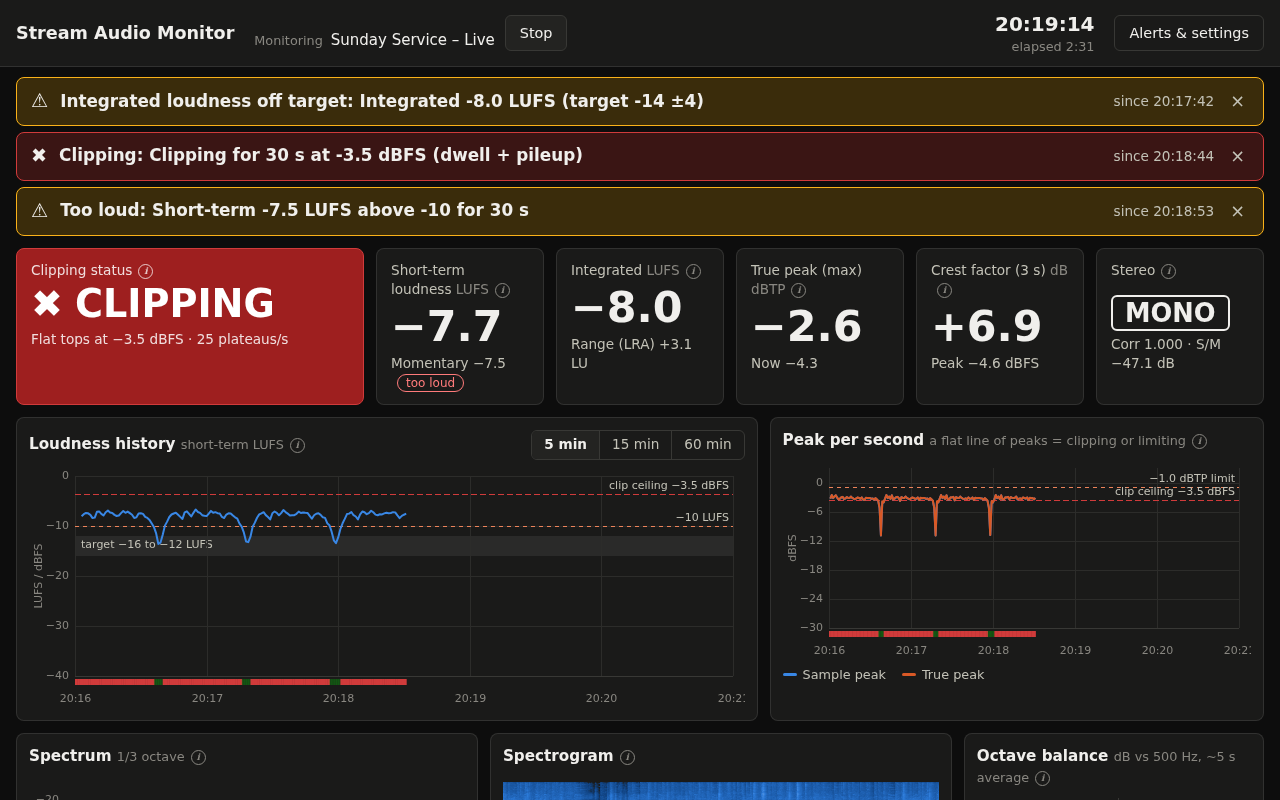
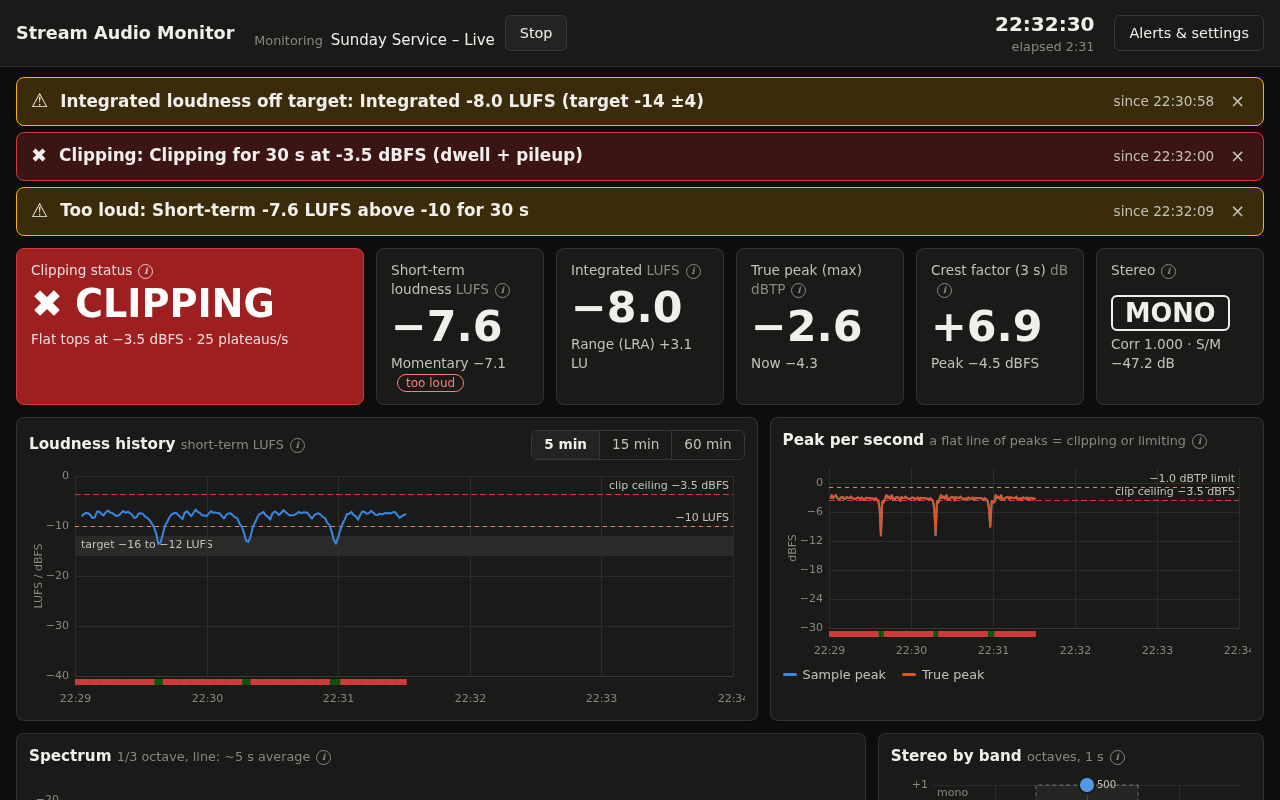
Stream Audio Monitor 1.1.1: balance scale labels; release
Stereo by band labels the balance axis at 3, 6, 10 and 20 dB each side
(where they fit) with 'L only' / 'R only' at the edges. Version 1.1.1;
README, store listing and store screenshots updated for the spectrum and
stereo changes since 1.1.0.

Claude-Session: https://claude.ai/code/session_01UYhwTYfi8m6hVqmHHSHws2

diff --git a/src/ui/stereo-view.js b/src/ui/stereo-view.js
@@ -15,6 +15,7 @@ const HIDE_BELOW = 50; // dB below the loudest band: too quiet to place reliably
 const JUDGE_DB = -70;
 const R_MIN = 1.2, R_MAX = 7; // dot radius (CSS px); hover still finds small dots within 12 px
 const BAL_TICK = 6; // dB, gridlines either side of centre
+const BAL_MARKS = [3, 6, 10, 20]; // dB, labelled ticks either side (the edges are one side only)
 // Rough area where the bands of a healthy stereo mix sit: a half-ellipse hanging from the
 // mono line, ±3 dB of balance wide and down to correlation +0.2 at the centre. A guide, not
 // a rule: bass belongs near the top, wide reverb or keys can dip a little below.
@@ -103,7 +104,7 @@ export class StereoBandsView {
     if (!this.w) return;
     const ctx = this.canvas.getContext('2d');
     const w = this.w, h = this.h;
-    const p = { l: 42, r: w - 10, t: 10, b: h - 22 };
+    const p = { l: 42, r: w - 10, t: 10, b: h - 36 };
     const cx = (p.l + p.r) / 2;
     const xOf = (db) => cx + balancePos(db) * ((p.r - p.l) / 2);
     const yOf = (c) => p.t + ((1 - c) / 2) * (p.b - p.t);
@@ -152,14 +153,38 @@ export class StereoBandsView {
     ctx.strokeStyle = 'rgba(255,255,255,0.35)';
     ctx.stroke();
     ctx.setLineDash([]);
+    // Balance axis: ticks at BAL_MARKS on both sides, labelled where they fit (the scale is
+    // compressed towards the edges, which mean one channel only).
     ctx.fillStyle = css('--muted');
+    ctx.strokeStyle = css('--muted');
+    const ly = p.b + 11;
+    const taken = [];
+    const label = (text, x, align) => {
+      const tw = ctx.measureText(text).width;
+      const x0 = align === 'left' ? x : align === 'right' ? x - tw : x - tw / 2;
+      if (taken.some(([a, b]) => x0 < b + 6 && x0 + tw > a - 6)) return;
+      taken.push([x0, x0 + tw]);
+      ctx.textAlign = align;
+      ctx.fillText(text, x, ly);
+    };
+    for (const db of BAL_MARKS) {
+      for (const x of [xOf(-db), xOf(db)]) {
+        const xx = Math.round(x) + 0.5;
+        ctx.beginPath();
+        ctx.moveTo(xx, p.b);
+        ctx.lineTo(xx, p.b + 4);
+        ctx.stroke();
+      }
+    }
+    label('C', cx, 'center');
+    label('L only', p.l, 'left');
+    label('R only', p.r, 'right');
+    for (const db of BAL_MARKS) {
+      label(String(db), xOf(-db), 'center');
+      label(String(db), xOf(db), 'center');
+    }
     ctx.textAlign = 'center';
-    const ly = p.b + 12;
-    ctx.fillText('L', p.l + 4, ly);
-    ctx.fillText(`${BAL_TICK} dB`, xOf(-BAL_TICK), ly);
-    ctx.fillText('C', cx, ly);
-    ctx.fillText(`${BAL_TICK} dB`, xOf(BAL_TICK), ly);
-    ctx.fillText('R', p.r - 4, ly);
+    ctx.fillText('balance: dB louder on that side', cx, p.b + 27);
     ctx.textAlign = 'left';
     ctx.fillText('mono', p.l + 4, p.t + 8);
     ctx.fillText('out of phase', p.l + 4, p.b - 8);

diff --git a/README.md b/README.md
@@ -143,8 +143,13 @@ The text under the status says how it was detected:
   **−1 dBTP** so YouTube's encoder has headroom.
 - **Crest factor**: peak minus average level. Natural speech/music is typically 12–20 dB;
   heavily limited audio is around 10–11 dB and clipped audio often under 9 dB.
-- **MONO badge**: shown when left and right are identical (correlation > 0.999). All our
-  feeds so far are effectively mono.
+- **MONO badge**: shown when left and right are identical (correlation > 0.999). Our
+  feeds are currently mono because of a configuration problem; the aim is full stereo.
+- **Stereo by band**: one dot per octave, placed by balance (left/right) and correlation
+  (+1 mono at the top, below 0 out of phase). The dashed half-oval is roughly where a
+  healthy stereo mix sits. A band below 0 cancels on mono speakers and phones.
+- **Spectrum, spectrogram and octave balance**: hover the spectrum bars or the spectrogram
+  for readings. The darker bars are the octave-balance frequencies.
 - **Peak per second**: a flat line of peaks at one level is the visual signature of
   clipping or limiting.
 
@@ -251,9 +256,10 @@ before changing any thresholds (`DEFAULT_CLIP_OPTIONS` in `src/dsp/clipdetect.js
 index.html, css/app.css
 src/dsp/          pure ES modules shared by the AudioWorklet, the file Worker and Node:
                   analyzer, loudness, kweighting, truepeak, clipdetect, stereo, crest,
-                  alerts, report (CSV/JSON), bands
+                  alerts, report (CSV/JSON), bands, hum, hum-isolate, stereobands
 src/audio/        analyzer-worklet, file-worker, engine (audio graph), sources (capture/decoding)
-src/ui/           app (controller), meters, charts, spectrum, log, session (CSV), settings, help
+src/ui/           app (controller), meters, charts, spectrum, stereo-view, hum-view, log,
+                  session (CSV), settings, help
 extension/        Chrome extension: background (service worker), offscreen (capture + session),
                   panel/dashboard pages (view.js), player check; built into dist/ with src/
 test/             node:test suites, WAV decoder, synthetic signals, e2e.mjs, e2e-extension.mjs

diff --git a/store/listing.md b/store/listing.md
@@ -31,8 +31,9 @@ WHAT IT MEASURES
 • Loudness to EBU R128 / ITU-R BS.1770-4: short-term, momentary, integrated (LUFS) and loudness range (LRA)
 • True peak (dBTP) with 4x oversampling
 • Crest factor, stereo correlation and a MONO indicator
+• Stereo by band: correlation and left/right balance for each octave, to spot phase and balance problems (in the full dashboard)
 • Mains hum detection (50 or 60 Hz): present / not detected / masked by music, level, harmonics, and how loud it would be if the speech were turned up
-• Spectrum, spectrogram and octave balance (in the full dashboard)
+• Spectrum, spectrogram and octave balance, with hover readings (in the full dashboard)
 
 ALERTS AND RECORDS
 • Banner and Chrome notification alerts for clipping, true peak above -1 dBTP, sustained loudness above -10 LUFS and integrated loudness far from -14 LUFS (all adjustable; optional beep, off by default)
